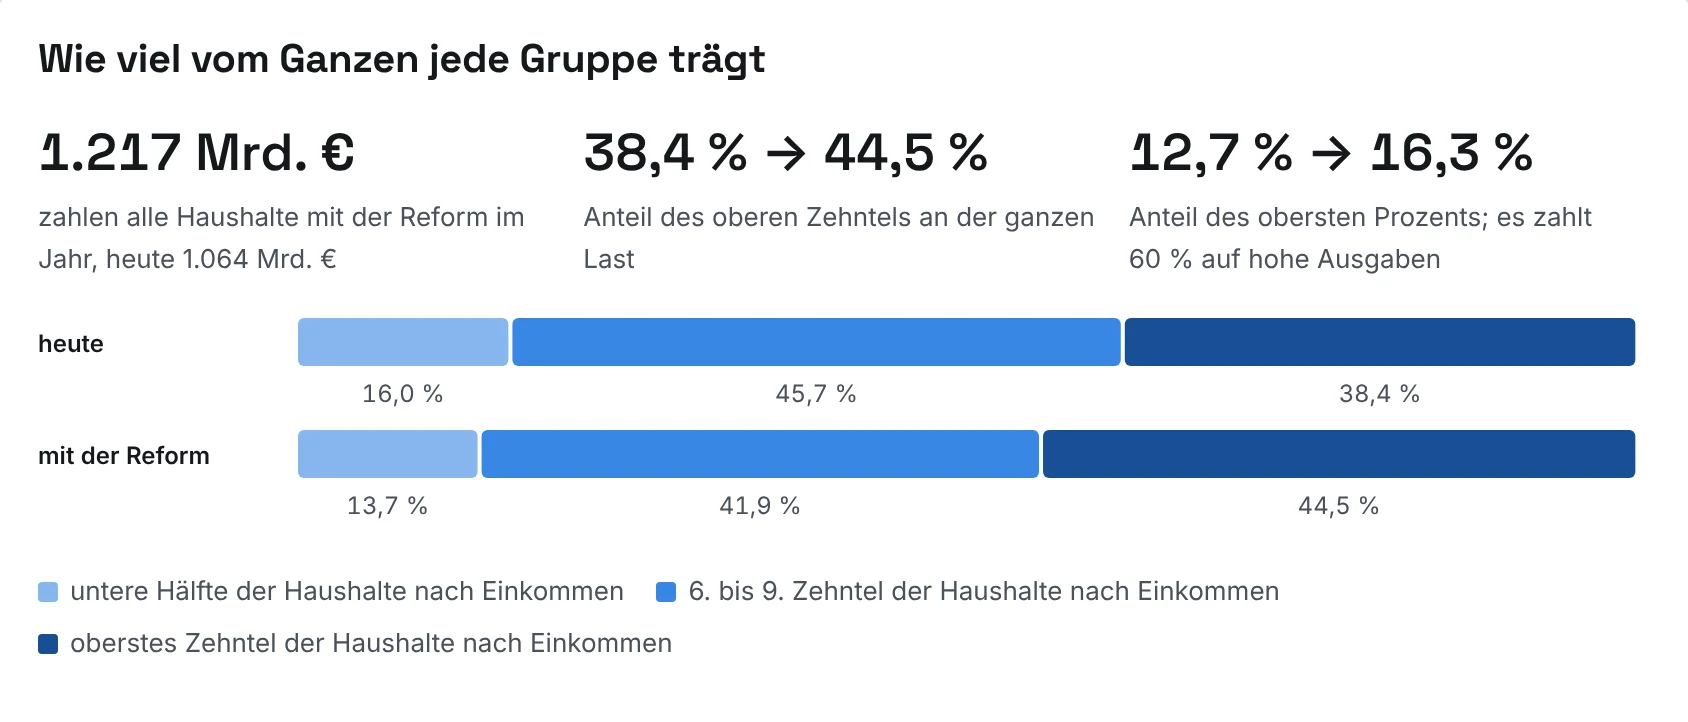
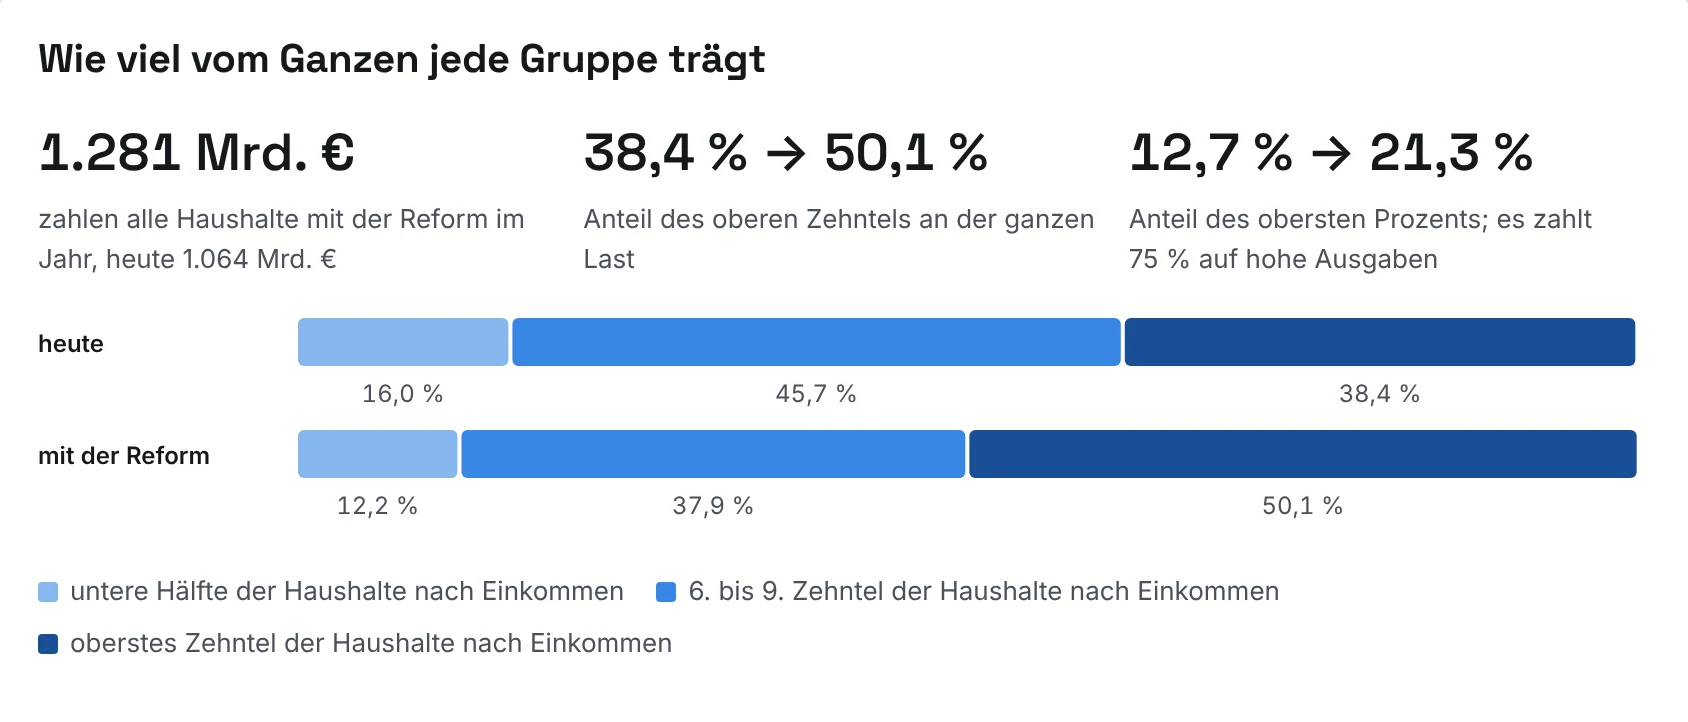
Wer die Reform bezahlt: Zahlen und Grafiken mit 75 % und Arbeitsweg frei
Claude-Session: https://claude.ai/code/session_012Y93VcoN35D38RtTTtR6vF

diff --git a/steuerlast/index.html b/steuerlast/index.html
@@ -37,34 +37,34 @@
 </div></section>
 <div class="wrap sl">
 <div class="facts">
-<div><b>59 von 100</b><span>Erwachsenen haben mehr Geld als heute, wenn sie so viel einkaufen wie heute. Mit den Kindern gezählt 63 von 100 Menschen.</span></div>
-<div><b>18,8 → 5,6 %</b><span>vom Einkommen zahlt das ärmste Zehntel an Steuern und Abgaben, heute und mit der Reform.</span></div>
-<div><b>38,4 → 44,5 %</b><span>aller Steuern und Abgaben der Haushalte trägt das reichste Zehntel, heute und mit der Reform.</span></div>
+<div><b>64 von 100</b><span>Erwachsenen haben mehr Geld als heute, wenn sie so viel einkaufen wie heute. Mit den Kindern gezählt 67 von 100 Menschen.</span></div>
+<div><b>18,8 → 5,5 %</b><span>vom Einkommen zahlt das ärmste Zehntel an Steuern und Abgaben, heute und mit der Reform.</span></div>
+<div><b>38,4 → 50,1 %</b><span>aller Steuern und Abgaben der Haushalte trägt das reichste Zehntel, heute und mit der Reform.</span></div>
 </div>
 <figure id="steuerlast-feld-einkommen-vermoegen">
 <a href="../bilder/steuerlast/steuerlast-feld-einkommen-vermoegen.webp" title="Wer hat mehr Geld, wer weniger: Grafik groß öffnen"><img src="../bilder/steuerlast/steuerlast-feld-einkommen-vermoegen.webp" width="1688" height="1362" loading="lazy" alt="Farbfeld nach Einkommen und Vermögen: Mehr Geld haben vor allem das unterste Zehntel der Einkommen und die unteren Einkommen mit wenig Vermögen, bei mittleren Einkommen ändert sich im Mittel wenig, weniger haben vor allem Haushalte mit mehr als 310.000 € Vermögen und das oberste Zehntel der Einkommen."></a>
 <figcaption>Jedes Feld ist eine Gruppe von Erwachsenen, geordnet nach Einkommen und Vermögen ihres Haushalts. Nach rechts steigt das Einkommen, nach unten das Vermögen. Grün heißt: Die Erwachsenen der Gruppe haben im Mittel mehr Geld als heute, in Prozent ihres Einkommens. Rot heißt: weniger. Mehr Geld haben vor allem das unterste Zehntel der Einkommen und die unteren Einkommen mit wenig Vermögen. Bei mittleren Einkommen hat gut die Hälfte mehr, im Mittel ändert sich wenig. Weniger haben vor allem Erwachsene in Haushalten mit mehr als 310.000 € Vermögen und im obersten Zehntel der Einkommen. In jedem Feld haben einzelne mehr und andere weniger. Schraffierte Felder: zu wenige Fälle für eine Aussage.</figcaption>
 </figure>
 <figure id="steuerlast-nach-einkommen">
-<a href="../bilder/steuerlast/steuerlast-nach-einkommen.webp" title="Wie viel vom Einkommen an Steuern und Abgaben geht: Grafik groß öffnen"><img src="../bilder/steuerlast/steuerlast-nach-einkommen.webp" width="1688" height="982" loading="lazy" alt="Punktgrafik nach Einkommenszehnteln: Das unterste Zehntel zahlt 5,6 statt 18,8 % seines Einkommens, das oberste 53,5 statt 40,3 %."></a>
-<figcaption>Zehn gleich große Gruppen von je 4,1 Mio. Haushalten, geordnet nach dem Einkommen vor Steuern (Löhne, Gewinne, Renten, Kapitalerträge, Grundsicherung). Die Zahl hinter der Gruppe ist ihr mittleres Einkommen im Monat, die Punkte zeigen den Durchschnitt der Gruppe. Das unterste Zehntel zahlt 5,6 statt 18,8 % seines Einkommens, das oberste 53,5 statt 40,3 %. „Mit weniger“ zählt die Erwachsenen der Gruppe, die trotzdem weniger haben als heute (bei gleichem Einkauf, ohne Erbe).</figcaption>
+<a href="../bilder/steuerlast/steuerlast-nach-einkommen.webp" title="Wie viel vom Einkommen an Steuern und Abgaben geht: Grafik groß öffnen"><img src="../bilder/steuerlast/steuerlast-nach-einkommen.webp" width="1688" height="982" loading="lazy" alt="Punktgrafik nach Einkommenszehnteln: Das unterste Zehntel zahlt 5,5 statt 18,8 % seines Einkommens, das oberste 63,2 statt 40,3 %."></a>
+<figcaption>Zehn gleich große Gruppen von je 4,1 Mio. Haushalten, geordnet nach dem Einkommen vor Steuern (Löhne, Gewinne, Renten, Kapitalerträge, Grundsicherung). Die Zahl hinter der Gruppe ist ihr mittleres Einkommen im Monat, die Punkte zeigen den Durchschnitt der Gruppe. Das unterste Zehntel zahlt 5,5 statt 18,8 % seines Einkommens, das oberste bis zu 63,2 statt 40,3 %. Gerechnet ist ohne Ausweichen: Wer weniger ausgibt oder sein Geld anders anlegt, zahlt weniger, darum ist die Last ganz oben eine Obergrenze. „Mit weniger“ zählt die Erwachsenen der Gruppe, die trotzdem weniger haben als heute (bei gleichem Einkauf, ohne Erbe).</figcaption>
 </figure>
 <figure id="steuerlast-anteile">
-<a href="../bilder/steuerlast/steuerlast-anteile.webp" title="Wie viel vom Ganzen jede Gruppe trägt: Grafik groß öffnen"><img src="../bilder/steuerlast/steuerlast-anteile.webp" width="1688" height="722" loading="lazy" alt="Balken: Das oberste Zehntel trägt 44,5 statt 38,4 % aller Steuern und Abgaben der Haushalte, die untere Hälfte 13,7 statt 16,0 %."></a>
-<figcaption>Alle Haushalte zahlen mit der Reform 1.217 Mrd. € im Jahr, heute 1.064 Mrd. €. Das oberste Zehntel trägt mehr vom Ganzen als heute, 44,5 statt 38,4 %. Das oberste Prozent trägt im ersten Jahr 16,3 statt 12,7 %. Es zahlt 75 % auf Ausgaben über 5.000 € im Monat; wenn das Erbe voll wirkt, trägt es 16,6 %.</figcaption>
+<a href="../bilder/steuerlast/steuerlast-anteile.webp" title="Wie viel vom Ganzen jede Gruppe trägt: Grafik groß öffnen"><img src="../bilder/steuerlast/steuerlast-anteile.webp" width="1688" height="722" loading="lazy" alt="Balken: Das oberste Zehntel trägt 50,1 statt 38,4 % aller Steuern und Abgaben der Haushalte, die untere Hälfte 12,2 statt 16,0 %."></a>
+<figcaption>Alle Haushalte zahlen mit der Reform 1.281 Mrd. € im Jahr, heute 1.064 Mrd. €. Das oberste Zehntel trägt mehr vom Ganzen als heute, 50,1 statt 38,4 %. Das oberste Prozent trägt im ersten Jahr 21,3 statt 12,7 %. Es zahlt 75 % auf Ausgaben über 5.000 € im Monat; wenn das Erbe voll wirkt, trägt es 21,5 %.</figcaption>
 </figure>
 <figure id="steuerlast-nach-vermoegen">
-<a href="../bilder/steuerlast/steuerlast-nach-vermoegen.webp" title="Wie viel vom Einkommen nach Vermögen geht: Grafik groß öffnen"><img src="../bilder/steuerlast/steuerlast-nach-vermoegen.webp" width="1688" height="812" loading="lazy" alt="Punktgrafik nach Vermögen: Haushalte unter 100.000 € Vermögen zahlen 0,6 Punkte weniger von ihrem Einkommen, Haushalte mit mehr Vermögen mehr, am meisten ab 800.000 €."></a>
+<a href="../bilder/steuerlast/steuerlast-nach-vermoegen.webp" title="Wie viel vom Einkommen nach Vermögen geht: Grafik groß öffnen"><img src="../bilder/steuerlast/steuerlast-nach-vermoegen.webp" width="1688" height="812" loading="lazy" alt="Punktgrafik nach Vermögen: Haushalte unter 100.000 € Vermögen zahlen 2,2 Punkte weniger von ihrem Einkommen, Haushalte mit mehr Vermögen mehr, am meisten ab 800.000 €."></a>
 <figcaption>Gruppen nach Nettovermögen. Mit dem Vermögen steigt die Last: Wer Zinsen, Dividenden oder Mieten ausgibt, zahlt darauf wie auf Lohn. Wer im eigenen Haus wohnt, zahlt nur für den Teil, der beim Start noch nicht bezahlt ist, auf den Mietwert wie auf eine Miete; Tilgung und Zinsen für den Kredit bleiben steuerfrei. Der beim Start bezahlte Teil des Hauses bleibt frei, aus versteuertem Ersparten jedes Jahr ein Teil, mindestens 1.715 € je Erwachsenem. Auf den Teil der Ausgaben über 5.000 € im Monat je Erwachsenem gehen 75 % an die Steuer.</figcaption>
 </figure>
 <figure id="wer-bezahlt-einkommen-vermoegen">
-<a href="../bilder/steuerlast/wer-bezahlt-einkommen-vermoegen.webp" title="Welche Einkommen und Vermögen die Reform bezahlen: Grafik groß öffnen"><img src="../bilder/steuerlast/wer-bezahlt-einkommen-vermoegen.webp" width="1688" height="1122" loading="lazy" alt="Balken nach Einkommens- und Vermögensart: Auf Löhne fallen 55,1 Mrd. € mehr, auf Gewinne eigener Firmen 56,0 Mrd. € mehr, auf vererbte Firmen 5,6 Mrd. € mehr."></a>
-<figcaption>Wie viel mehr oder weniger Steuern und Abgaben im Jahr auf jede Art von Einkommen und Vermögen fallen als heute, in Milliarden Euro. Auf Löhne fallen 55,1 Mrd. € mehr, auf Gewinne eigener Firmen 56,0 Mrd. € mehr. Beim Erbe zahlen Firmen 5,6 Mrd. € mehr, 12,6 Mrd. €, wenn der Staatsanteil am Erbe voll wirkt: Heute sind vererbte Firmen zu 85 % verschont, mit der Reform zählt alles voll. Zusammen tragen die Haushalte 153 Mrd. € mehr als heute; ohne den Zuschlag für heutige Rentner (10 Mrd. €, ihre Rente kauft 4 % mehr) wären es 163 Mrd. €. Steuern von Firmen, die nicht den Haushalten gehören, sind nicht enthalten.</figcaption>
+<a href="../bilder/steuerlast/wer-bezahlt-einkommen-vermoegen.webp" title="Welche Einkommen und Vermögen die Reform bezahlen: Grafik groß öffnen"><img src="../bilder/steuerlast/wer-bezahlt-einkommen-vermoegen.webp" width="1688" height="1122" loading="lazy" alt="Balken nach Einkommens- und Vermögensart: Auf Löhne fallen 65,9 Mrd. € mehr, auf Gewinne eigener Firmen 94,2 Mrd. € mehr, auf vererbte Firmen 5,6 Mrd. € mehr."></a>
+<figcaption>Wie viel mehr oder weniger Steuern und Abgaben im Jahr auf jede Art von Einkommen und Vermögen fallen als heute, in Milliarden Euro. Auf Löhne fallen 65,9 Mrd. € mehr, auf Gewinne eigener Firmen 94,2 Mrd. € mehr. Beim Erbe zahlen Firmen 5,6 Mrd. € mehr, 12,6 Mrd. €, wenn der Staatsanteil am Erbe voll wirkt: Heute sind vererbte Firmen zu 85 % verschont, mit der Reform zählt alles voll. Zusammen tragen die Haushalte 217 Mrd. € mehr als heute; ohne den Zuschlag für heutige Rentner (10 Mrd. €, ihre Rente kauft 4 % mehr) wären es 227 Mrd. €. Steuern von Firmen, die nicht den Haushalten gehören, sind nicht enthalten.</figcaption>
 </figure>
 <div class="methode">
 <h2>Wie gerechnet wurde</h2>
 <p>Rund 46.000 künstliche Haushalte stehen für alle 41 Mio. Haushalte in Deutschland, mit 68,2 Mio. Erwachsenen und 82,3 Mio. Menschen. Sie sind auf amtliche Zahlen geeicht: Löhne und Konsum aus der Volkswirtschaftlichen Gesamtrechnung 2025, Lohn- und Einkommensteuer aus den Steuereinnahmen 2025, Vermögen aus der Vermögensbefragung der Bundesbank 2023 mit einer Zuschätzung der Reichsten, Sparen aus der Einkommens- und Verbrauchsstichprobe.</p>
-<p>Heute: Lohn- und Einkommensteuer mit Soli, Sozialbeiträge, Abgeltungsteuer, Körperschaftsteuer auf eigene Firmen, Mehrwertsteuer, Erbschaft- und Schenkungsteuer. Mit der Reform: Ausgabensteuer über dem Freibetrag von 1.200 € im Monat je Erwachsenem, auf den Teil der Ausgaben über 5.000 € im Monat 75 %, höhere Mehrwertsteuer auf denselben Einkauf, die verbleibenden Beiträge und der Staatsanteil am Erbe, abzüglich der Auszahlungen an die Haushalte. Das Erbe zählt als erwartete Steuer im Jahr. Wie jede Schätzung hängt das Ergebnis an Annahmen: Gezählt werden Erwachsene über 18: Jeder zählt mit dem Plus seines Haushalts geteilt durch die Erwachsenen darin, erwachsene Kinder bei den Eltern zählen für sich, Kinder unter 18 mit ihrem Haushalt. Im gezeigten Fall haben 59 von 100 Erwachsenen mehr Geld, mit dem Zuschlag für den Start 2028 rund 57. Rechnet man mit anderen vertretbaren Annahmen, die zu den amtlichen Zahlen über Einkauf und Sparen passen, haben zwischen 52 und 61 von 100 Erwachsenen mehr. Weniger haben im gezeigten Fall 27,7 Mio. Erwachsene, im Mittel 745 € im Monat. Die Grafiken ordnen nach Einkommen und Vermögen des Haushalts und zählen die erwachsenen Kinder bei den Eltern nicht mit. Jeden einzelnen Haushalt rechnet der <a href="../steuerrechner/">Steuerrechner</a> nach, die ganze Rechnung steht im <a href="../buch/">Buch</a>.</p>
+<p>Heute: Lohn- und Einkommensteuer mit Soli, Sozialbeiträge, Abgeltungsteuer, Körperschaftsteuer auf eigene Firmen, Mehrwertsteuer, Erbschaft- und Schenkungsteuer. Mit der Reform: Ausgabensteuer über dem Freibetrag von 1.200 € im Monat je Erwachsenem, auf den Teil der Ausgaben über 5.000 € im Monat 75 %, höhere Mehrwertsteuer auf denselben Einkauf, die verbleibenden Beiträge und der Staatsanteil am Erbe, abzüglich der Auszahlungen an die Haushalte. Das Erbe zählt als erwartete Steuer im Jahr. Wie jede Schätzung hängt das Ergebnis an Annahmen: Gezählt werden Erwachsene über 18: Jeder zählt mit dem Plus seines Haushalts geteilt durch die Erwachsenen darin, erwachsene Kinder bei den Eltern zählen für sich, Kinder unter 18 mit ihrem Haushalt. Im gezeigten Fall haben 64 von 100 Erwachsenen mehr Geld. Rechnet man mit anderen vertretbaren Annahmen, die zu den amtlichen Zahlen über Einkauf und Sparen passen, haben zwischen 56 und 66 von 100 Erwachsenen mehr. Selbst wenn man einzelne Annahmen bis an den Rand verschiebt, sind es mindestens 52. Weniger haben im gezeigten Fall 27,7 Mio. Erwachsene, im Mittel 745 € im Monat. Die Grafiken ordnen nach Einkommen und Vermögen des Haushalts und zählen die erwachsenen Kinder bei den Eltern nicht mit. Jeden einzelnen Haushalt rechnet der <a href="../steuerrechner/">Steuerrechner</a> nach, die ganze Rechnung steht im <a href="../buch/">Buch</a>.</p>
 </div>
 </div>
 </main>

diff --git a/werkzeug/steuerlast-seite.py b/werkzeug/steuerlast-seite.py
@@ -61,11 +61,11 @@ G = [
   "Jedes Feld ist eine Gruppe von Erwachsenen, geordnet nach Einkommen und Vermögen ihres Haushalts. Nach rechts steigt das Einkommen, nach unten das Vermögen. Grün heißt: Die Erwachsenen der Gruppe haben im Mittel mehr Geld als heute, in Prozent ihres Einkommens. Rot heißt: weniger. Mehr Geld haben vor allem das unterste Zehntel der Einkommen und die unteren Einkommen mit wenig Vermögen. Bei mittleren Einkommen hat gut die Hälfte mehr, im Mittel ändert sich wenig. Weniger haben vor allem Erwachsene in Haushalten mit mehr als 310.000 € Vermögen und im obersten Zehntel der Einkommen. In jedem Feld haben einzelne mehr und andere weniger. Schraffierte Felder: zu wenige Fälle für eine Aussage."),
  ("steuerlast-nach-einkommen", 1688, 982, "Wie viel vom Einkommen an Steuern und Abgaben geht",
   "Punktgrafik nach Einkommenszehnteln: Das unterste Zehntel zahlt «z1r» statt «z1h» % seines Einkommens, das oberste «z10r» statt «z10h» %.",
-  "Zehn gleich große Gruppen von je 4,1 Mio. Haushalten, geordnet nach dem Einkommen vor Steuern (Löhne, Gewinne, Renten, Kapitalerträge, Grundsicherung). Die Zahl hinter der Gruppe ist ihr mittleres Einkommen im Monat, die Punkte zeigen den Durchschnitt der Gruppe. Das unterste Zehntel zahlt «z1r» statt «z1h» % seines Einkommens, das oberste «z10r» statt «z10h» %. „Mit weniger“ zählt die Erwachsenen der Gruppe, die trotzdem weniger haben als heute (bei gleichem Einkauf, ohne Erbe)."),
+  "Zehn gleich große Gruppen von je 4,1 Mio. Haushalten, geordnet nach dem Einkommen vor Steuern (Löhne, Gewinne, Renten, Kapitalerträge, Grundsicherung). Die Zahl hinter der Gruppe ist ihr mittleres Einkommen im Monat, die Punkte zeigen den Durchschnitt der Gruppe. Das unterste Zehntel zahlt «z1r» statt «z1h» % seines Einkommens, das oberste bis zu «z10r» statt «z10h» %. Gerechnet ist ohne Ausweichen: Wer weniger ausgibt oder sein Geld anders anlegt, zahlt weniger, darum ist die Last ganz oben eine Obergrenze. „Mit weniger“ zählt die Erwachsenen der Gruppe, die trotzdem weniger haben als heute (bei gleichem Einkauf, ohne Erbe)."),
  ("steuerlast-anteile", 1688, 722, "Wie viel vom Ganzen jede Gruppe trägt",
   "Balken: Das oberste Zehntel trägt «orr» statt «oh» % aller Steuern und Abgaben der Haushalte, die untere Hälfte «ur» statt «uh» %.",
   "Alle Haushalte zahlen mit der Reform «gr» Mrd. € im Jahr, heute «gh» Mrd. €. Das oberste Zehntel trägt mehr vom Ganzen als heute, «orr» statt «oh» %. Das oberste Prozent trägt im ersten Jahr «p1r» statt «p1h» %. Es zahlt «s4» auf Ausgaben über 5.000 € im Monat; wenn das Erbe voll wirkt, trägt es «p1l» %."),
- ("steuerlast-nach-vermoegen", 1688, 702, "Wie viel vom Einkommen nach Vermögen geht",
+ ("steuerlast-nach-vermoegen", 1688, 812, "Wie viel vom Einkommen nach Vermögen geht",
   "Punktgrafik nach Vermögen: Haushalte unter 100.000 € Vermögen zahlen «vp» Punkte weniger von ihrem Einkommen, Haushalte mit mehr Vermögen mehr, am meisten ab 800.000 €.",
   "Gruppen nach Nettovermögen. Mit dem Vermögen steigt die Last: Wer Zinsen, Dividenden oder Mieten ausgibt, zahlt darauf wie auf Lohn. Wer im eigenen Haus wohnt, zahlt nur für den Teil, der beim Start noch nicht bezahlt ist, auf den Mietwert wie auf eine Miete; Tilgung und Zinsen für den Kredit bleiben steuerfrei. Der beim Start bezahlte Teil des Hauses bleibt frei, aus versteuertem Ersparten jedes Jahr ein Teil, mindestens 1.715 € je Erwachsenem. Auf den Teil der Ausgaben über 5.000 € im Monat je Erwachsenem gehen «s4» an die Steuer."),
  ("wer-bezahlt-einkommen-vermoegen", 1688, 1122, "Welche Einkommen und Vermögen die Reform bezahlen",
